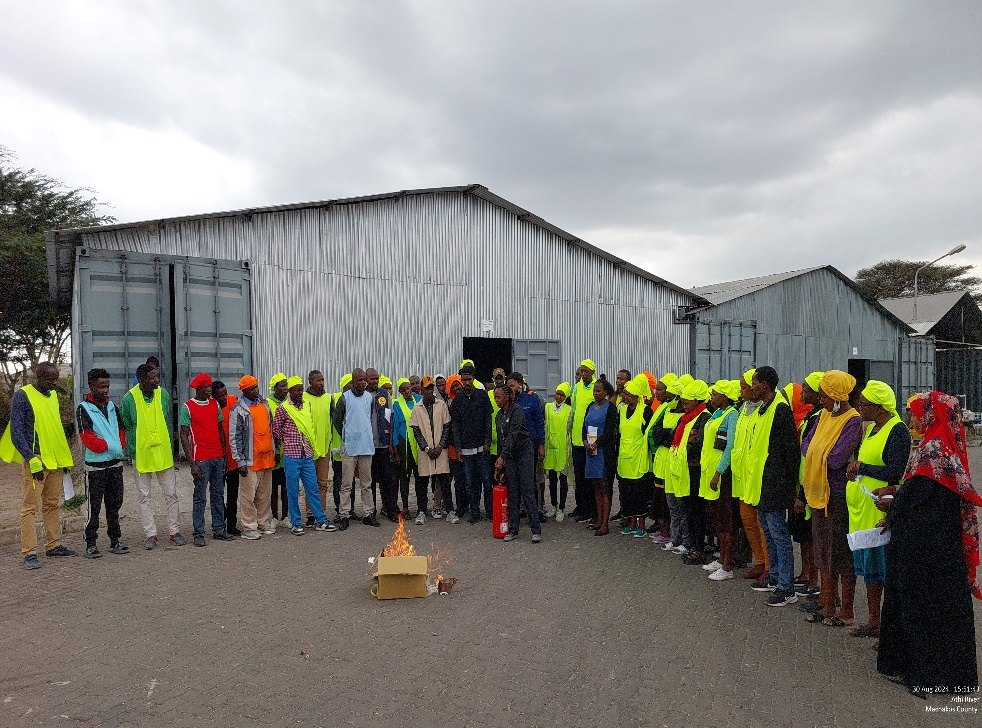
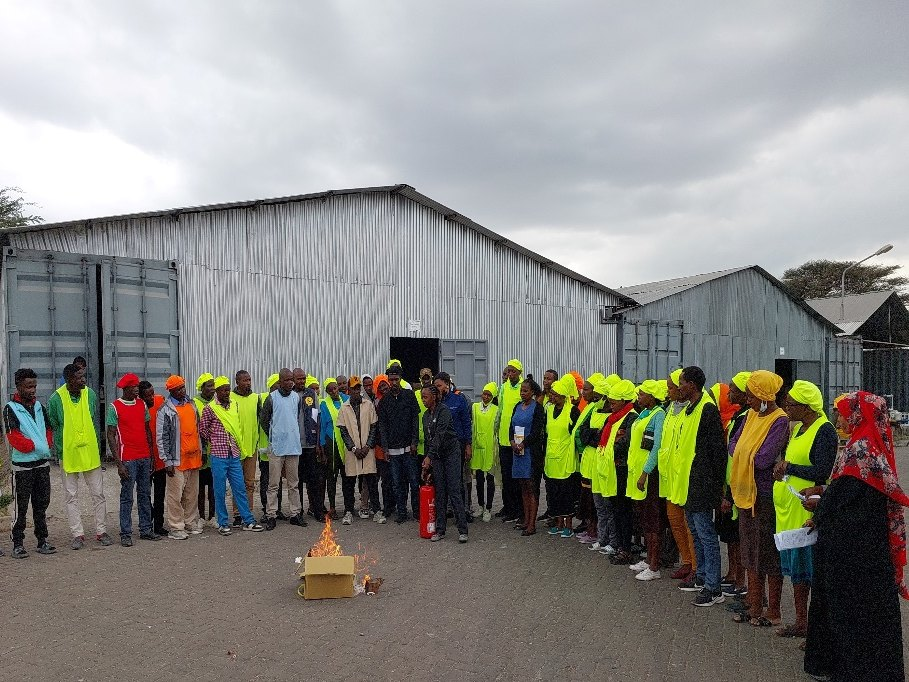
Responsibility: 4:3 fire training photo without the date stamp, tree team photo on the homepage preview

diff --git a/responsibility.html b/responsibility.html
@@ -107,7 +107,7 @@
       <figure><div class="zoom"><img src="images/deck/csr-orphanage-1.jpg" width="936" height="884" alt="Orphanage visit" data-cap="Orphanage visit" loading="lazy" decoding="async"></div><figcaption class="cap">Orphanage visit</figcaption></figure>
       <figure><div class="zoom"><img src="images/deck/csr-orphanage-items.jpg" width="905" height="884" alt="Food and school items for the orphanage" data-cap="Food and school items for the orphanage" loading="lazy" decoding="async"></div><figcaption class="cap">Food and school items for the orphanage</figcaption></figure>
       <figure><div class="zoom"><img src="images/safety-training.jpg" width="1050" height="847" alt="In-house fire, first-aid and safety training" data-cap="In-house fire, first-aid and safety training" loading="lazy" decoding="async"></div><figcaption class="cap">In-house fire, first-aid and safety training</figcaption></figure>
-      <figure><div class="zoom"><img src="images/deck/csr-fire-training.jpg" width="982" height="728" alt="Fire safety training" data-cap="Fire safety training" loading="lazy" decoding="async"></div><figcaption class="cap">Fire safety training</figcaption></figure>
+      <figure><div class="zoom"><img src="images/deck/csr-fire-training.jpg" width="909" height="682" alt="Fire safety training" data-cap="Fire safety training" loading="lazy" decoding="async"></div><figcaption class="cap">Fire safety training</figcaption></figure>
     </div>
   </div>
 </section>

diff --git a/index.html b/index.html
@@ -234,7 +234,7 @@
         <a class="more" href="responsibility.html">Responsibility</a>
       </div>
       <div class="rv">
-        <figure><div class="zoom"><img src="images/red-cross-relief.jpg" width="1050" height="787" alt="Staff delivering drought relief with Kenya Red Cross" data-cap="Drought relief with Kenya Red Cross" loading="lazy" decoding="async"></div><figcaption class="cap">Drought relief with Kenya Red Cross</figcaption></figure>
+        <figure><div class="zoom"><img src="images/deck/csr-tree-team.jpg" width="1024" height="768" alt="Management planting a tree at the factory" data-cap="Tree planting for the 100,000-tree initiative" loading="lazy" decoding="async"></div><figcaption class="cap">Tree planting for the 100,000-tree initiative</figcaption></figure>
       </div>
     </div>
   </div>
